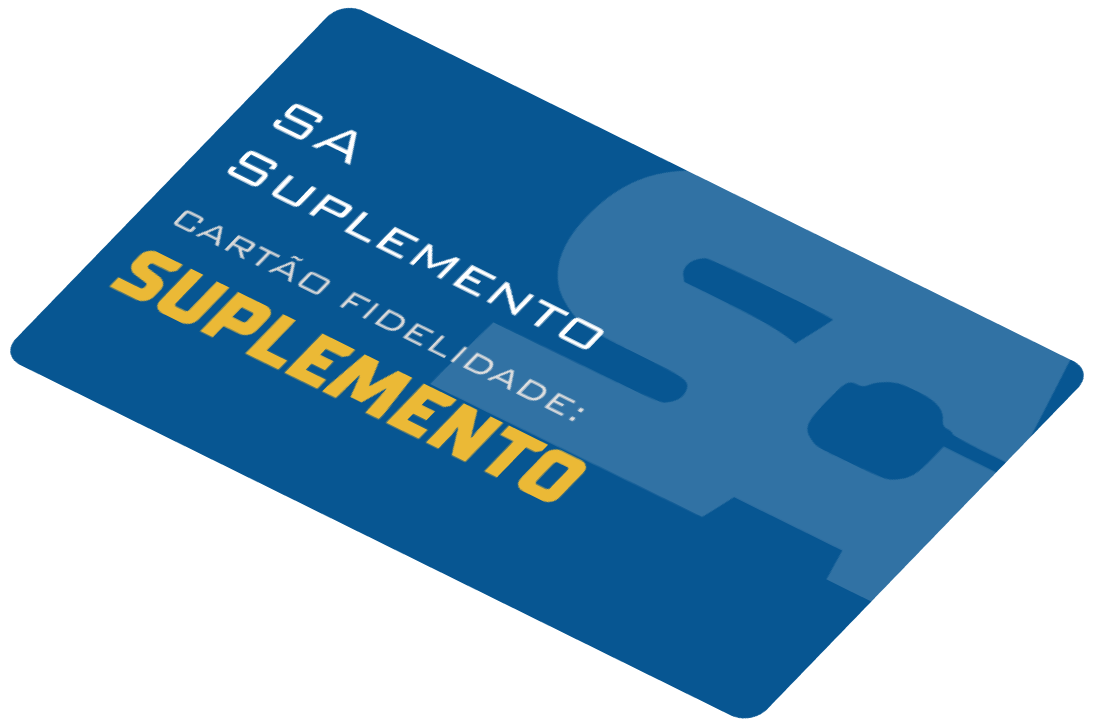
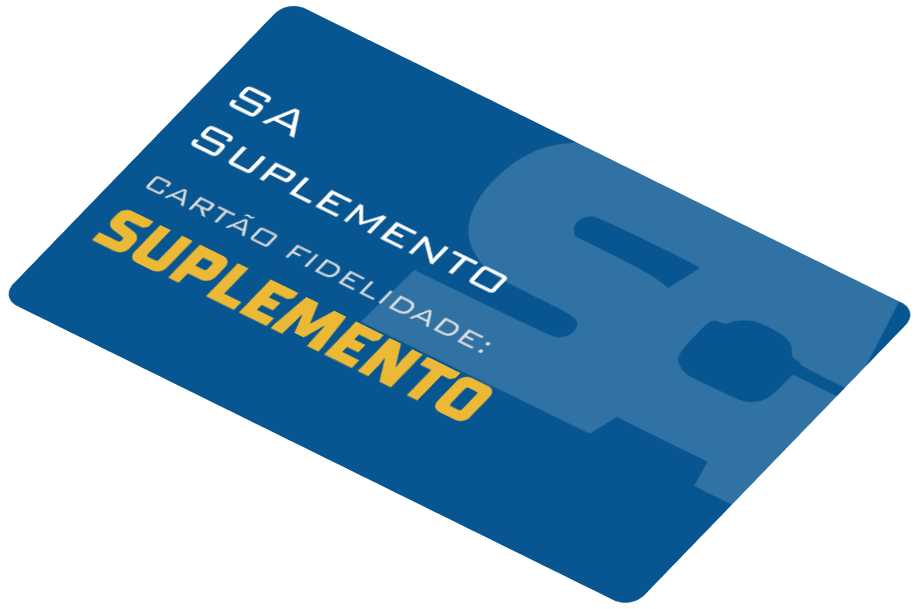
refactor: hero section

diff --git a/src/app/landing/page.tsx b/src/app/landing/page.tsx
@@ -10,13 +10,6 @@ import {
   AccordionItem,
   AccordionTrigger,
 } from '@/components/ui/accordion'
-import {
-  Card,
-  CardContent,
-  CardDescription,
-  CardHeader,
-  CardTitle,
-} from '@/components/ui/card'
 import { HowItWorksItem } from '@/components/landing-page/how-it-works-item'
 import { AboutItem } from '@/components/landing-page/about-item'
 import { HighlightsTitle } from '@/components/landing-page/highlights-title'
@@ -24,6 +17,7 @@ import { HighlightsSubTitle } from '@/components/landing-page/highlights-subtitl
 import { Label } from '@radix-ui/react-label'
 import { Input } from '@/components/ui/input'
 import { ArrowBigDown } from 'lucide-react'
+import { Header } from '@/components/layout/header'
 
 export default function Landing() {
   const faq = [
@@ -46,22 +40,32 @@ export default function Landing() {
 
   return (
     <main className="bg-[url('/bg/bg.png')] bg-[length:250%] sm:bg-[length:75%] bg-repeat">
+      <Header />
       {/* HERO */}
-      <section className="min-h-screen pt-32">
-        <div className="w-[60rem] max-w-full flex sm:flex-row mx-auto gap-20 justify-center">
-          <div
-            className="flex flex-col w-fit h-full"
-            style={{
-              width: `calc(97.25rem * ${HERO_IMG_SCALE})`,
-            }}
-          >
+      <section className="sm:min-h-screen py-28 sm:pt-[6.5rem] px-5 sm:px-10 bg-[url('/bg/bg-hero.png')] bg-[length:auto_50%] sm:bg-cover sm:bg-no-repeat border-b border-primary">
+        <div className="w-[60rem] max-w-full flex flex-col items-center sm:flex-row mx-auto gap-24 justify-center">
+          <div className="flex flex-col w-fit sm:pt-0 sm:w-[23.24rem]">
             <div
               className="relative"
               style={{
-                width: `calc(97.25rem * ${HERO_IMG_SCALE})`,
-                height: `calc(99.125rem * ${HERO_IMG_SCALE})`,
+                width: `calc(84.7125rem * ${HERO_IMG_SCALE})`,
+                height: `calc(86.75rem * ${HERO_IMG_SCALE})`,
               }}
             >
+              <Image
+                src="/hero-smoothie.png"
+                alt="Image 02 do Hero - Smoothie"
+                width={840}
+                height={991}
+                sizes="100%"
+                priority={true}
+                className="pointer-events-none absolute"
+                style={{
+                  width: `calc(52.5rem * ${HERO_IMG_SCALE})`,
+                  height: `calc(61.9375rem * ${HERO_IMG_SCALE})`,
+                  top: `calc(5.75rem * ${HERO_IMG_SCALE})`,
+                }}
+              />
               <Image
                 src="/hero-shirt.png"
                 alt="Image 02 do Hero - Camisa"
@@ -76,70 +80,58 @@ export default function Landing() {
                 }}
               />
               <Image
-                src="/hero-smoothie.png"
-                alt="Image 02 do Hero - Smoothie"
-                width={840}
-                height={991}
-                sizes="100%"
-                priority={true}
-                className="pointer-events-none absolute"
-                style={{
-                  width: `calc(52.5rem * ${HERO_IMG_SCALE})`,
-                  height: `calc(61.9375rem * ${HERO_IMG_SCALE})`,
-                }}
-              />
-              <Image
                 src="/hero-card-01.png"
                 alt="Image 01 do Hero - Cartão"
-                width={1095}
-                height={726}
+                width={919}
+                height={609}
                 sizes="100%"
                 priority={true}
                 className="pointer-events-none absolute bottom-0"
                 style={{
-                  width: `calc(68.4375rem * ${HERO_IMG_SCALE})`,
-                  height: `calc(45.375rem * ${HERO_IMG_SCALE})`,
+                  width: `calc(57.4375rem * ${HERO_IMG_SCALE})`,
+                  height: `calc(38.0625rem * ${HERO_IMG_SCALE})`,
+                  left: `calc(5.625rem * ${HERO_IMG_SCALE})`,
                 }}
               />
               <Image
                 src="/hero-card-02.png"
                 alt="Image 02 do Hero - Cartão"
-                width={836}
-                height={646}
+                width={703}
+                height={543}
                 sizes="100%"
                 priority={true}
                 className="pointer-events-none absolute"
                 style={{
-                  width: `calc(52.25rem * ${HERO_IMG_SCALE})`,
-                  height: `calc(40.375rem * ${HERO_IMG_SCALE})`,
-                  right: `calc(5.8125rem * ${HERO_IMG_SCALE})`,
-                  bottom: `calc(19.85375rem * ${HERO_IMG_SCALE})`,
+                  width: `calc(43.9375rem * ${HERO_IMG_SCALE})`,
+                  height: `calc(33.9375rem * ${HERO_IMG_SCALE})`,
+                  right: `calc(2.5rem * ${HERO_IMG_SCALE})`,
+                  bottom: `calc(16.125rem * ${HERO_IMG_SCALE})`,
                 }}
               />
             </div>
             <h1 className="text-2xl mt-10">
-              Junte-se ao Nosso{' '}
-              <span className="text-primary">Programa de Fidelidade</span> e
-              Ganhe Recompensas!
+              FAÇA PARTE DO NOSSO{' '}
+              <span className="text-primary">PROGRAMA DE FIDELIDADE</span>
             </h1>
             <h2 className="text-xl mt-2">
               Acumule pontos e troque por produtos grátis e prêmios exclusivos!
             </h2>
+            <Button
+              variant={'secondary'}
+              className="w-full sm:text-xl text-primary mt-10"
+              // disabled={isPending}
+            >
+              <ArrowBigDown className="size-6 mx-2" />
+              SAIBA MAIS
+              <ArrowBigDown className="size-6 mx-2" />
+            </Button>
           </div>
 
-          <div
-            className="w-[20rem]"
-            style={{
-              width: `calc(97.25rem * ${HERO_IMG_SCALE})`,
-            }}
-          >
-            <div
-              className="space-y-10"
-              style={{
-                height: `calc(99.125rem * ${HERO_IMG_SCALE})`,
-              }}
-            >
-              <h4 className="sm:text-2xl">Já Possui Cadastro? Acesse!</h4>
+          <div className="flex flex-col w-full sm:sm:w-[23.24rem] p-5 py-8 bg-black sm:p-8 rounded-xl sm:rounded-lg shadow-md shadow-white/10">
+            <div className="space-y-5">
+              <p className="sm:text-2xl text-xl font-normal">
+                Já Possui Cadastro?
+              </p>
               <form className="space-y-5">
                 <div className="space-y-1">
                   <Label className="sm:text-xl ">Email</Label>
@@ -156,18 +148,6 @@ export default function Landing() {
                   Entrar
                 </Button>
               </form>
-            </div>
-            <div className="mt-10 space-y-10">
-              <h4 className="sm:text-2xl">Não Possui Cadastro?</h4>
-              <Button
-                variant={'secondary'}
-                className="w-full sm:text-xl text-primary"
-                // disabled={isPending}
-              >
-                <ArrowBigDown className="size-6 mx-2" />
-                SAIBA MAIS
-                <ArrowBigDown className="size-6 mx-2" />
-              </Button>
             </div>
           </div>
         </div>

diff --git a/src/components/layout/header.tsx b/src/components/layout/header.tsx
@@ -12,7 +12,7 @@ export function Header() {
   }
 
   return (
-    <header className="px-6 absolute top-0 left-0 right-0 z-10 border-b border-white/20">
+    <header className="px-6 fixed top-0 left-0 right-0 z-10 bg-background border-b border-white/20">
       <div className="mx-auto w-[65rem] sm:h-[5rem] py-3 sm:py-2 max-w-full flex justify-between items-center gap-2">
         <Link href={'/'} className="flex items-center gap-2">
           <SALogo className="text-primary sm:size-12 size-10" />
